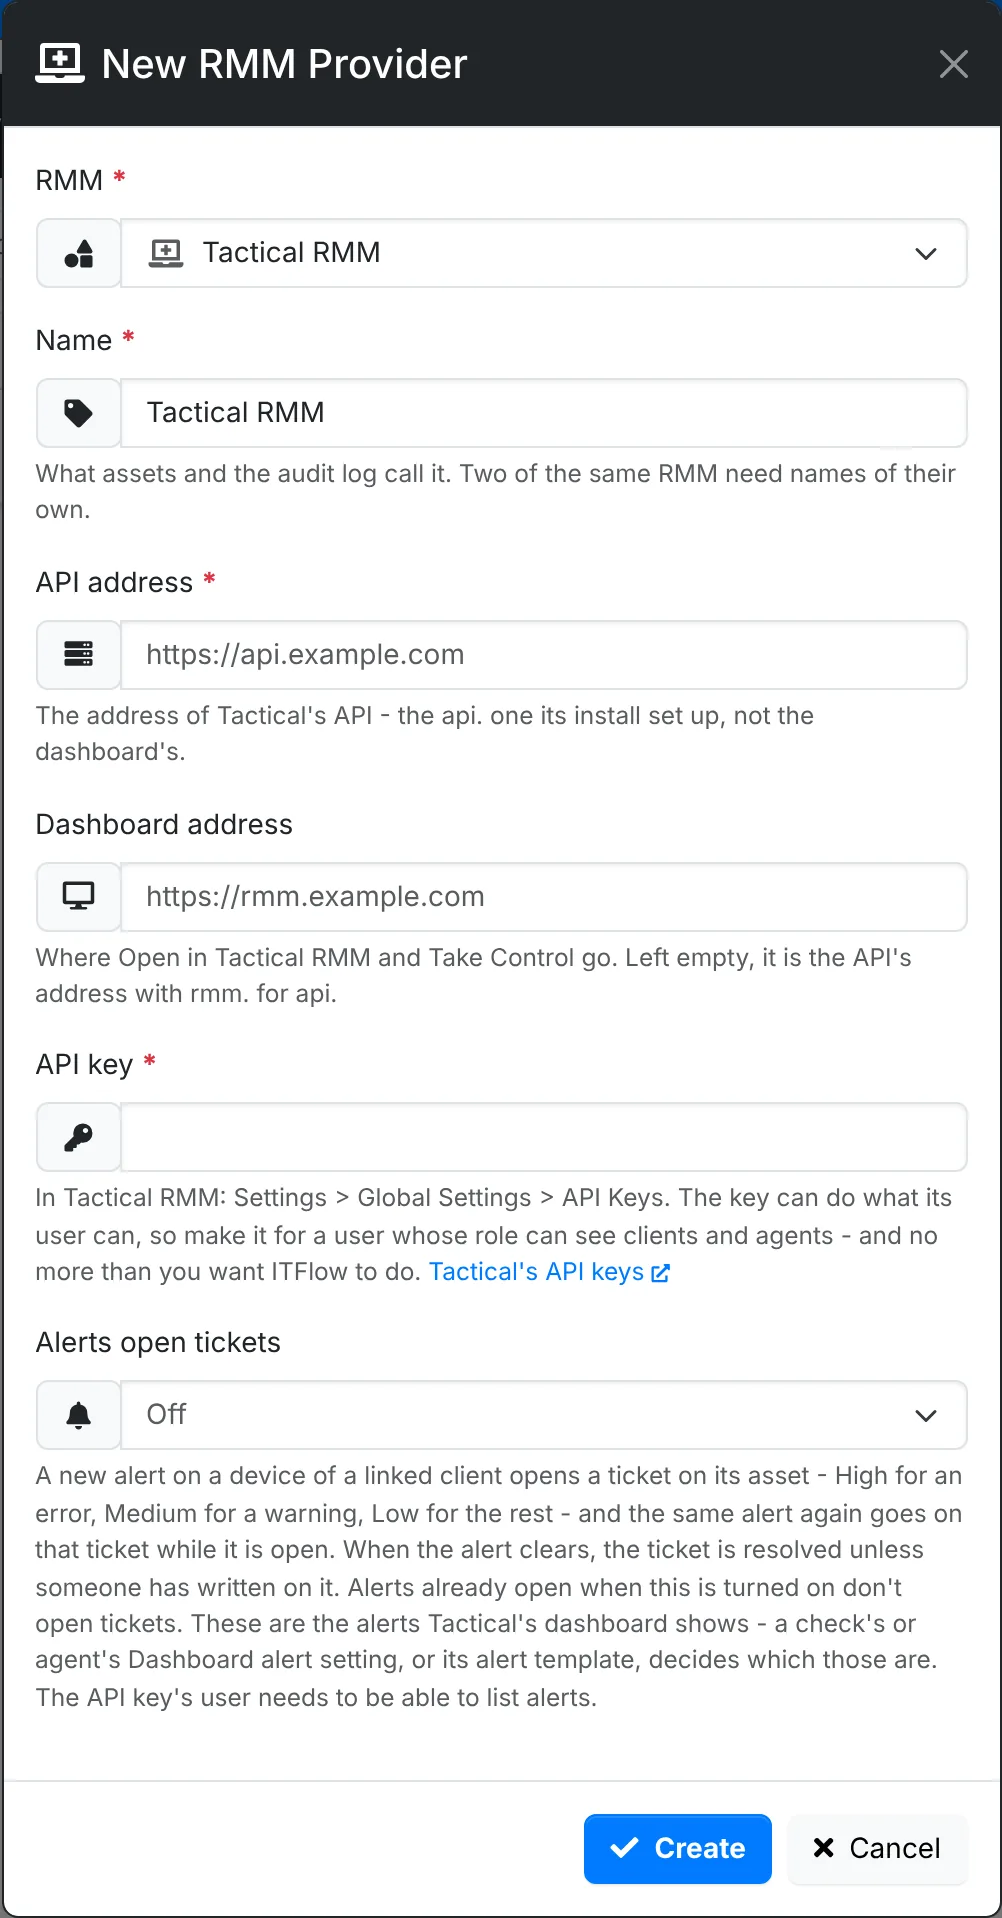
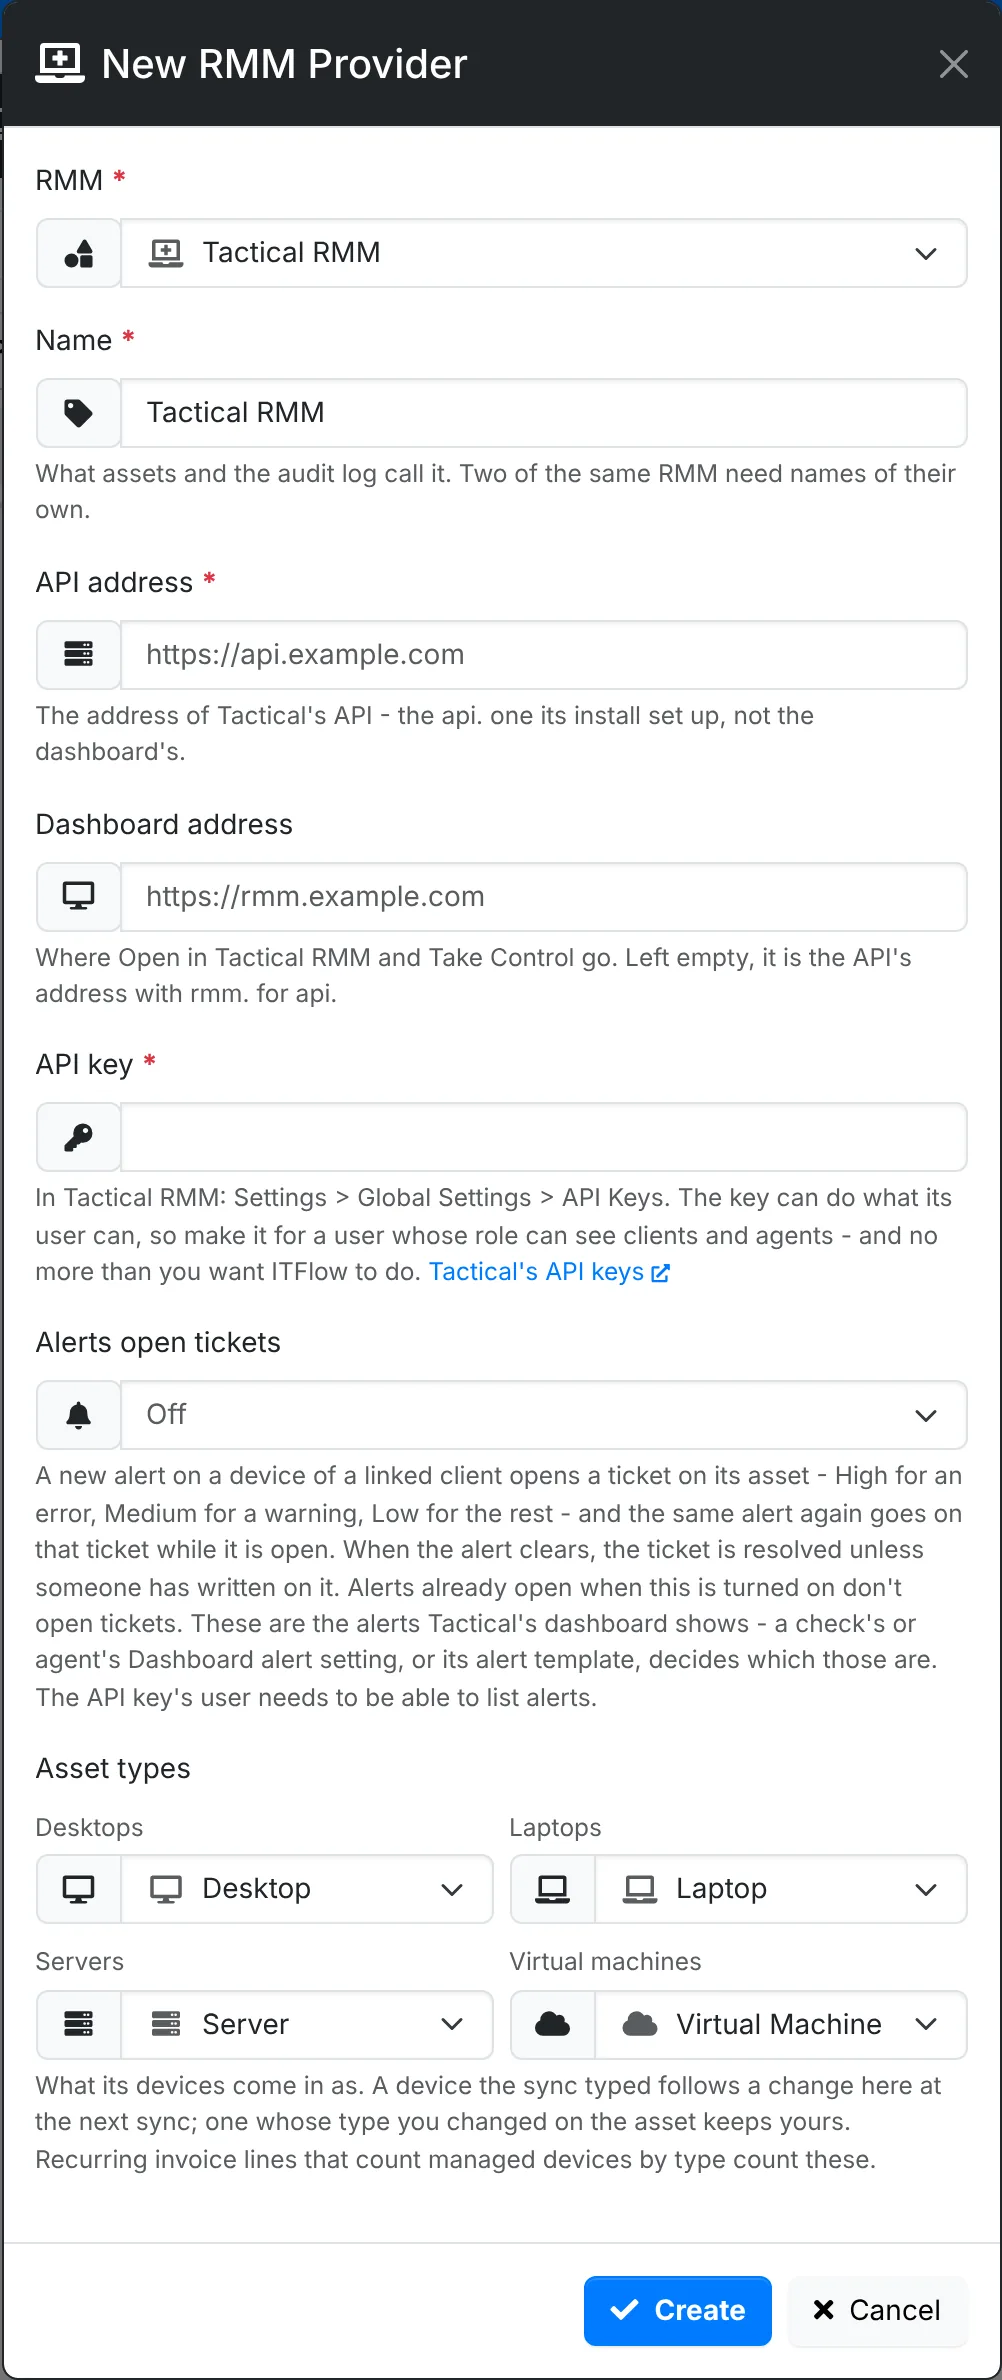
Docs: QoL 76 - RMM page covers Link to another asset, assigning signed-in users, asset types per provider and the client overview card, with the overview, assets list and API asset pages updated and new screenshots

diff --git a/content/admin/rmm.md b/content/admin/rmm.md
@@ -29,9 +29,10 @@ You also need the address of Tactical's API. Tactical's install puts it at an ad
 1. In **Admin > RMM Providers**, click **New Provider**.
 2. **RMM** is **Tactical RMM**. Leave the **Name** as it is, unless you have more than one Tactical - see [More than one](#more-than-one).
 3. Enter the **API address** and the **API key**. The **Dashboard address** can stay empty when it's the API's address with `rmm.` for `api.`.
-4. Click **Create**. ITFlow tries the key, brings in Tactical's clients and opens its **Clients** page. If something is wrong, it says what - a key Tactical turned away, or an address that isn't Tactical's API.
+4. Under **Asset types**, pick what **Desktops**, **Laptops**, **Servers** and **Virtual machines** come in as - ITFlow's own types, or one of [your own](/admin/asset-types) such as a Workstation. Leave them as they are to keep ITFlow's.
+5. Click **Create**. ITFlow tries the key, brings in Tactical's clients and opens its **Clients** page. If something is wrong, it says what - a key Tactical turned away, or an address that isn't Tactical's API.
 
-![The New RMM Provider window](adm-rmm-provider-form.webp "New RMM Provider: which RMM, its API address and key, and whether its alerts open tickets")
+![The New RMM Provider window](adm-rmm-provider-form.webp "New RMM Provider: which RMM, its API address and key, whether its alerts open tickets, and the asset type each kind of device comes in as")
 
 No devices come in yet. They come in once you link their client.
 
@@ -58,28 +59,50 @@ Each device becomes one of its client's assets. When the client has the asset al
 1. by serial number,
 2. or by name, when only one of the client's assets has it.
 
-A matched asset keeps what it has - only what it's missing is filled in. Otherwise a new asset is made, with its name, type, make and model, serial number, operating system, IP address, CPU and storage. Its type is worked out from what Tactical says: virtual machine, server, laptop or desktop. Its location is the client's location named like its site in Tactical, if there is one.
+A matched asset keeps what it has - only what it's missing is filled in. Otherwise a new asset is made, with its name, type, make and model, serial number, operating system, IP address, CPU and storage. Its type is worked out from what Tactical says - virtual machine, server, laptop or desktop - and is the type the provider's **Asset types** has for it. Its location is the client's location named like its site in Tactical, if there is one.
 
-After that, each of those details follows Tactical - a device renamed in Tactical is renamed here - until you change it in ITFlow. A detail you've changed stays as you set it, and an empty detail in Tactical never empties one here. The asset's **History** tab says what Tactical changed.
+After that, each of those details follows Tactical - a device renamed in Tactical is renamed here - until you change it in ITFlow. A detail you've changed stays as you set it, and an empty detail in Tactical never empties one here. The asset's **History** tab says what Tactical changed. Change the provider's **Asset types** later and the assets whose type Tactical set follow at the next sync. Recurring invoice lines that count [managed devices](#billing) by type count the new type, so check them.
+
+If a device was matched to the wrong asset, or came in as a new one beside the asset you had for it, link it to the right one - see [Link to another asset](#link-to-another-asset).
 
 ## On the asset {#on-the-asset}
 
 An asset from Tactical shows whether the device is **Online**, **Offline** or **Overdue** beside its status. Its **Tactical RMM** card has when it was last seen, who's signed in, how long it's been up, its public IP, its site and its agent, and what needs attention: a reboot waiting, patches waiting, checks failing, and alerts with their tickets.
 
-![An asset from Tactical RMM](doc-asset-rmm.webp "A desktop from Tactical: online, who's signed in, a failing check, and the ticket its alert opened")
+![An asset from Tactical RMM](doc-asset-rmm.webp "A desktop from Tactical: online, who's signed in with Assign to make them its contact, a failing check, and the ticket its alert opened")
 
 - **Take Control** opens Tactical's remote session for the device, in a new tab. Its menu has **Open in Tactical RMM** and **Remote Background**.
 - The asset's quick look has the same state, and **Take Control**.
-- On the [assets list](/documentation/assets#the-assets-list), a dot after a device's name says how it is - green online, grey offline, red overdue. The **Tactical RMM** filter shows the ones online, offline or overdue, every device in Tactical, or the assets that aren't in it.
+- On the [assets list](/documentation/assets#the-assets-list), a dot after a device's name says how it is - green online, grey offline, red overdue. The **Tactical RMM** filter shows the ones online, offline or overdue, the ones that need a reboot, have patches waiting or have checks failing, every device in Tactical, or the assets that aren't in it.
 
 The card shows what Tactical said at the last sync, and says when that was.
+
+### Who it's assigned to {#assign}
+
+When the asset isn't assigned to anyone and the person signed in is one of the client's contacts, the card offers **Assign** with their name. Click it to make them the asset's contact. The username is matched to the contact's email, or to their name - `RDG\mwhitfield`, `marla.whitfield` and `AzureAD\MarlaWhitfield` are all Marla Whitfield. Nothing is offered when no contact matches, or when more than one could.
+
+To do it for many assets at once, tick them on the assets list and use **Bulk Action > Assign Signed-in Users**. Only assets with nobody assigned are changed, and the message says how many were assigned and how many had nobody to match.
+
+### Link to another asset {#link-to-another-asset}
+
+When a device is linked to the wrong asset - or came in as a new asset beside the one you'd already entered for it - use **⋮ > Link to another asset** on its card. Pick the asset it is. Assets another device from Tactical already has can't be picked.
+
+![The Link to another asset window](doc-asset-rmm-link.webp "Link to another asset: the asset it is, and archiving the one Tactical made for it")
+
+The asset you pick keeps its name and what you've entered, and gets what it's missing from Tactical straight away. Tick **Archive** to archive the asset the device had - it's ticked when Tactical made that asset for this device. The message has **Undo** for the archive. Both assets' history says what was linked.
+
+## On the client overview {#client-overview}
+
+A client with devices in Tactical has a **Tactical RMM** card on its [overview](/clients/overview#technical), beside **Assets**: how many are online, offline and overdue, and how many need a reboot, have patches waiting or have checks failing. Each line opens the client's assets list showing those devices. Devices that are overdue are also counted under **Needs attention**.
+
+![The Tactical RMM card on a client's overview](cl-overview-rmm.webp "A client's overview: their assets by kind, and their devices in Tactical - online, offline, overdue and what needs a look")
 
 ## When devices come and go {#devices-come-and-go}
 
 - **A device Tactical no longer has** keeps its asset, marked **No longer in Tactical RMM** - its agent was removed, or it moved to a client that isn't linked. If it comes back, it picks up where it was.
 - **An agent reinstalled in Tactical** is a new device there. ITFlow matches it to the asset the old agent had, by its serial number or name, so you don't get a second one.
 - **A device moved to another linked client in Tactical** is matched or made at that client. The asset it had stays with the first client, no longer kept up, and its history says where the device went.
-- **An asset you delete in ITFlow** isn't made again by the next sync. To have it back, use **⋮ > Bring back** on its client's row on the **Clients** page. It shows there once a sync has run since you deleted it - click **Sync Now** if you don't want to wait.
+- **An asset you delete in ITFlow** isn't made again by the next sync. To have it back, use **⋮ > Bring back** on its client's row on the **Clients** page - it's there as soon as you've deleted it.
 - **Linking a client to another of yours** brings its devices in there. The assets made for the first client stay with it, no longer kept up - archive them if they were never theirs.
 - **Unlink** stops its devices coming in. Their assets stay, with what Tactical last said, but ITFlow no longer counts them as in Tactical - no dot, card or **Take Control**, and they stop counting as managed devices. Link the client again and its devices are matched back to the same assets.
 - An archived client's devices aren't brought in.

diff --git a/content/api/documentation.md b/content/api/documentation.md
@@ -29,7 +29,7 @@ These endpoints need the **Support** area of the key's role, apart from credenti
 | `client_id` | Just this client's assets |
 | `limit`, `offset` | [Paging](/api/requests#paging) |
 
-The list and `asset_mac` include each asset's primary network interface - its IP and MAC address and network. The other lookups return the asset alone. The list includes archived assets. Every asset comes with its details as `asset_specs` - see [Details](#assets-details).
+The list and `asset_mac` include each asset's primary network interface - its IP and MAC address and network. The other lookups return the asset alone. The list includes archived assets. Every asset comes with its details as `asset_specs` - see [Details](#assets-details). And with its devices in your [RMM](/admin/rmm) as `asset_rmm` - see [Devices in an RMM](#assets-rmm).
 
 ```
 curl -G https://itflow.example.com/api/v1/assets/read.php \
@@ -58,13 +58,31 @@ curl -G https://itflow.example.com/api/v1/assets/read.php \
       "interface_mac": "02:56:C0:D6:2E:2C",
       "interface_network_id": "1",
       "tags": [ { "tag_id": 65, "tag_name": "Business Critical", "tag_kind": "asset", "tag_color": "#d81b60", "tag_icon": "exclamation-circle" } ],
-      "asset_specs": { "ports": "6", "sfp_ports": "2" }
+      "asset_specs": { "ports": "6", "sfp_ports": "2" },
+      "asset_rmm": []
     }
   ]
 }
 ```
 
 **Fields:** `asset_id`, `asset_type`, `asset_name`, `asset_description`, `asset_make`, `asset_model`, `asset_serial`, `asset_os`, `asset_uri`, `asset_uri_2`, `asset_uri_client`, `asset_status`, `asset_purchase_reference`, `asset_purchase_date`, `asset_warranty_expire`, `asset_install_date`, `asset_photo`, `asset_physical_location`, `asset_notes`, `asset_favorite`, `asset_vendor_id`, `asset_location_id`, `asset_contact_id`, `asset_client_id`, `asset_product_id`, `asset_invoice_id`, `asset_invoice_item_id`, `asset_created_at`, `asset_updated_at`, `asset_archived_at`, `asset_accessed_at`, `tags`. With the interface: `interface_id`, `interface_name`, `interface_description`, `interface_type`, `interface_mac`, `interface_ip`, `interface_nat_ip`, `interface_ipv6`, `interface_vlans`, `interface_notes`, `interface_primary`, `interface_network_id`. And `asset_specs`, its details (`{}` for none).
+
+### Devices in an RMM {#assets-rmm}
+
+`asset_rmm` lists the asset's devices in your RMM providers - one for each provider that has it, the one most likely to matter first, and `[]` for an asset in none. Each has `provider_id` and `provider` (its name in ITFlow), `device_id` (its id in the RMM), `hostname`, `site`, `status` (`online`, `offline`, `overdue`, `removed` once the RMM no longer has it, or empty when it doesn't say), `last_seen_at`, `boot_at`, `logged_user`, `public_ip`, `local_ips`, `needs_reboot`, `patches_pending`, `checks_total`, `checks_failing`, `maintenance`, `agent_version`, `synced_at` (when the sync last brought it in) and `removed_at`. It is what the RMM said at the last sync, read only - the API doesn't change it.
+
+```json
+"asset_rmm": [
+  {
+    "provider_id": 1, "provider": "Tactical RMM", "device_id": "RDG00mepxbcudnvbtgbcqqc",
+    "hostname": "RDG-LT-01", "site": "Main Office", "status": "online",
+    "last_seen_at": "2026-11-21 18:47:48", "boot_at": "2026-11-10 18:49:09", "logged_user": "RDG\\mwhitfield",
+    "public_ip": "203.0.113.24", "local_ips": "192.168.11.100",
+    "needs_reboot": false, "patches_pending": false, "checks_total": 6, "checks_failing": 0, "maintenance": false,
+    "agent_version": "2.12.0", "synced_at": "2026-11-21 19:10:46", "removed_at": null
+  }
+]
+```
 
 ### Create {#assets-create}
 

diff --git a/content/clients/overview.md b/content/clients/overview.md
@@ -25,11 +25,12 @@ A row of tiles counting what needs doing for this client. Each one opens a list 
 - tickets **past their SLA**, **unassigned tickets** and **overdue projects**
 - work **resolved, not invoiced** and **expenses to bill**
 - **service reviews due**, **passwords due for a change**, **licenses over seats** and **certificate problems**
+- devices **overdue** in your [RMM](/admin/rmm#client-overview) - not checking in
 - documents, licenses or vendors the client should have and doesn't
 - warranties, licenses, domains and certificates **expired** or **expiring soon**
 - [contracts](/billing/contracts) **ending** or **renewing soon**
 
-## Technical
+## Technical {#technical}
 
 - **Open tickets** - the client's open tickets, with how many were opened and resolved in the last 30 days.
 - **Quick notes** - anything the next person should know: gate codes, quirks, who to ask for. Type in it and it saves when you click away.
@@ -39,6 +40,7 @@ A row of tiles counting what needs doing for this client. Each one opens a list 
 - **Projects** and **Services**, with what needs a look.
 - **Renewals** - domains, certificates, licenses and warranties expired or due in the next 45 days.
 - **Assets** - how many of each kind, and how many warranties are covered or expired.
+- **Tactical RMM**, or whatever you call your [RMM](/admin/rmm#client-overview), when the client has devices in it - how many are online, offline or overdue, and how many need a reboot, have patches waiting or have checks failing. Each line opens those devices on the assets list.
 - **Shared links** that are still open, and **Recent activity** - the latest changes, with a link to the client's audit log.
 
 ## Financial

diff --git a/content/documentation/assets.md b/content/documentation/assets.md
@@ -15,7 +15,7 @@ An asset is a device: a laptop, a server, a NAS, a switch, a firewall, a UPS, a 
 - Each row shows the device's type icon, name and description, its tags, type and operating system, make, model and serial number, IP address, who it's assigned to, its location and its status. A UPS whose battery is due for replacing soon, or overdue, has a badge by its model, and so does a date one of your own [asset types](/admin/asset-types#details) flags, such as a badge reader's last test.
 - **Web**, **SSH** and **RDP** buttons beside an IP address open a connection to the device - the browser for Web, your SSH or remote desktop app for the others.
 - The location, assigned contact and status can be changed right in the row.
-- With an [RMM](/admin/rmm) set up, a dot after a device's name says whether it's online, offline or overdue there, and a filter shows the ones in each state, or the assets that aren't in it.
+- With an [RMM](/admin/rmm) set up, a dot after a device's name says whether it's online, offline or overdue there, and a filter shows the ones in each state, the ones that need a reboot, have patches waiting or have checks failing, or the assets that aren't in it. **Bulk Action > Assign Signed-in Users** assigns each one with nobody assigned to the contact signed in to it - see [Who it's assigned to](/admin/rmm#assign).
 
 To see every client's devices together, use **Across Clients > Assets** in the top bar.
 
